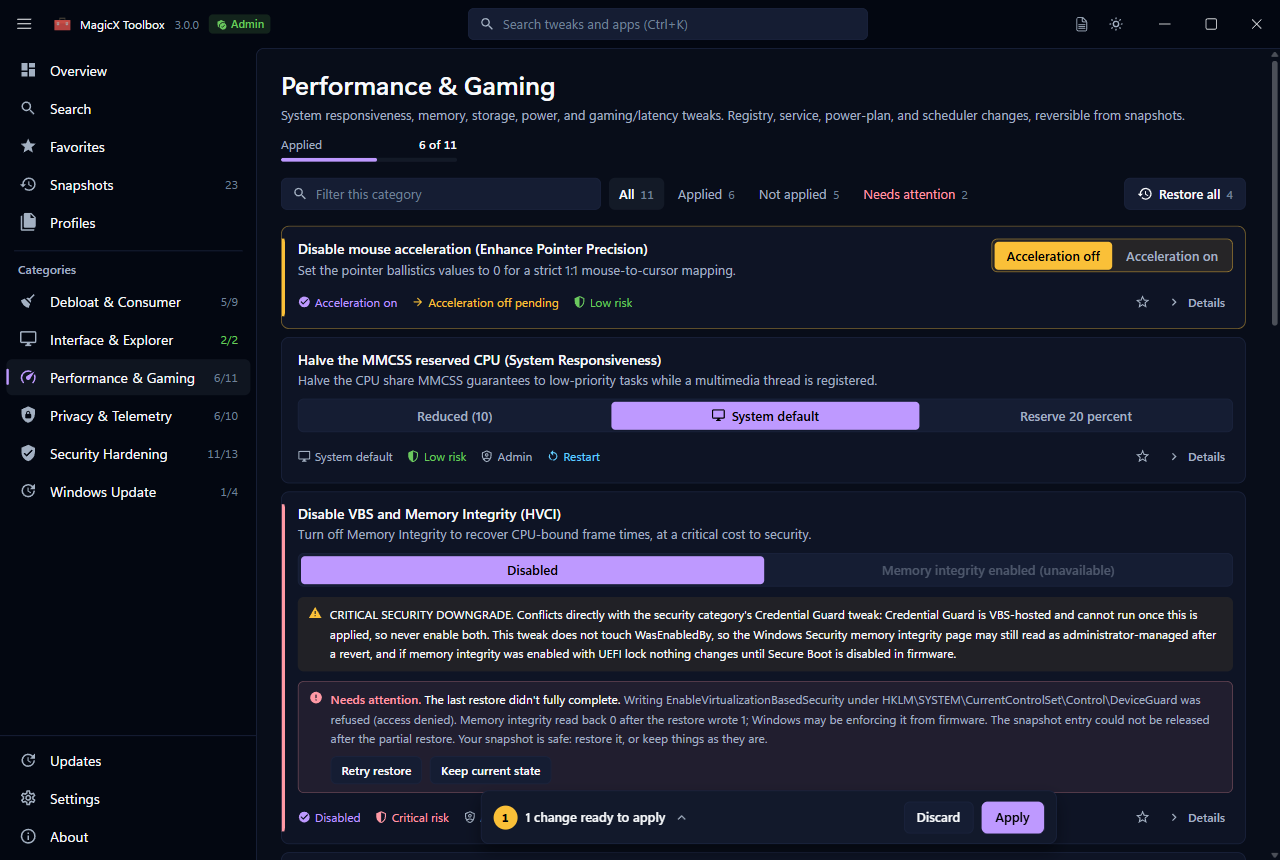
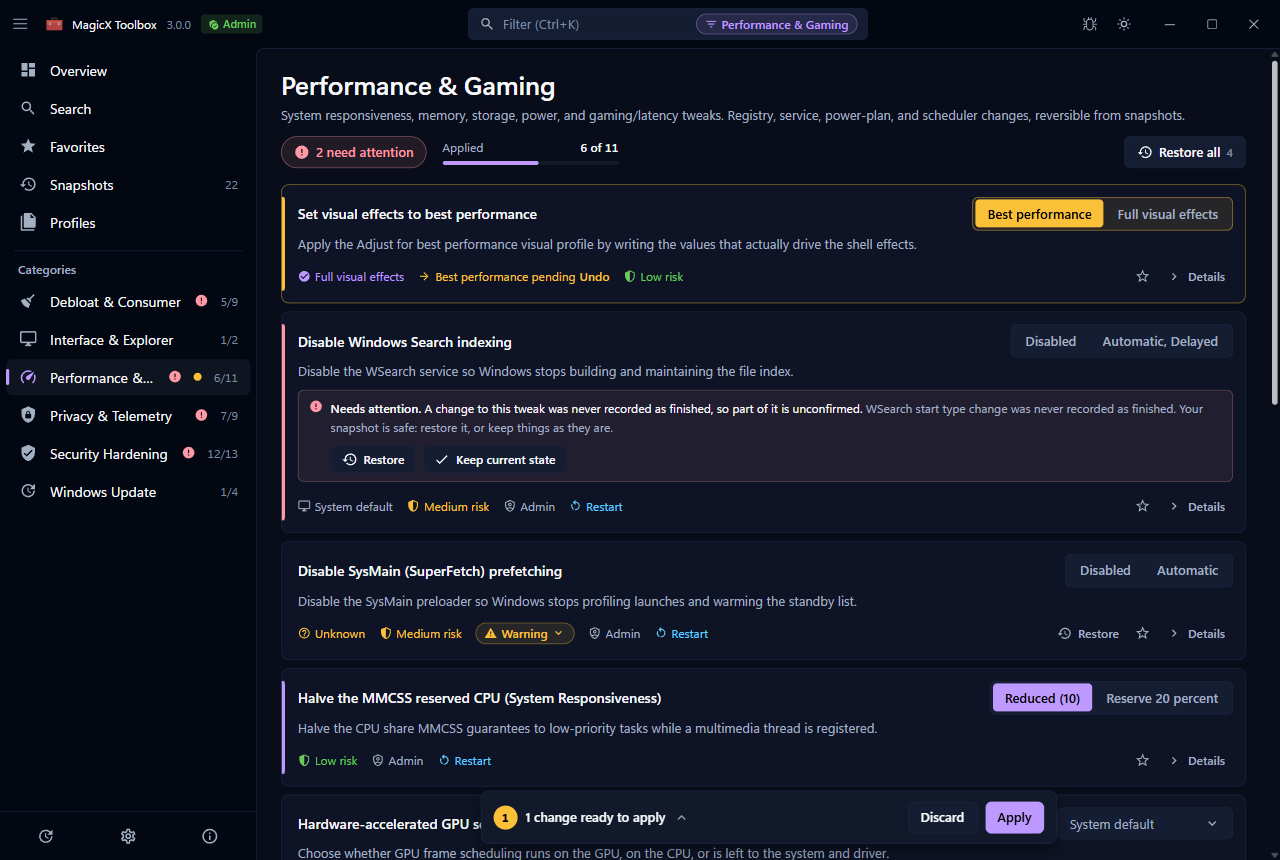
docs(readme): refresh screenshots for the current interface
Retaken in preview mode at 1280x860: the category shot shows the state fact only where the control cannot, and details now open in a dialog rather than a docked panel.

diff --git a/README.md b/README.md
@@ -14,10 +14,10 @@ MagicX Toolbox is a modern, safe, and easy-to-use application designed to help y
   <p><em>Search: find any tweak or app from the title bar with Ctrl+K</em></p>
 
   <img src="static/screenshots/03-category.png" alt="Performance and Gaming category" width="800">
-  <p><em>Categories: every warning and status on the row, with staged changes applied from one bar</em></p>
+  <p><em>Categories: risk, warnings and attention on the row, with staged changes applied from one bar</em></p>
 
-  <img src="static/screenshots/04-details-panel.png" alt="Tweak details panel" width="800">
-  <p><em>Details: what a tweak changes, why, and its snapshot history, beside the list</em></p>
+  <img src="static/screenshots/04-details-panel.png" alt="Tweak details dialog" width="800">
+  <p><em>Details: what each option changes, why, and the snapshot history, in one dialog</em></p>
 </div>
 
 ## Key Features
